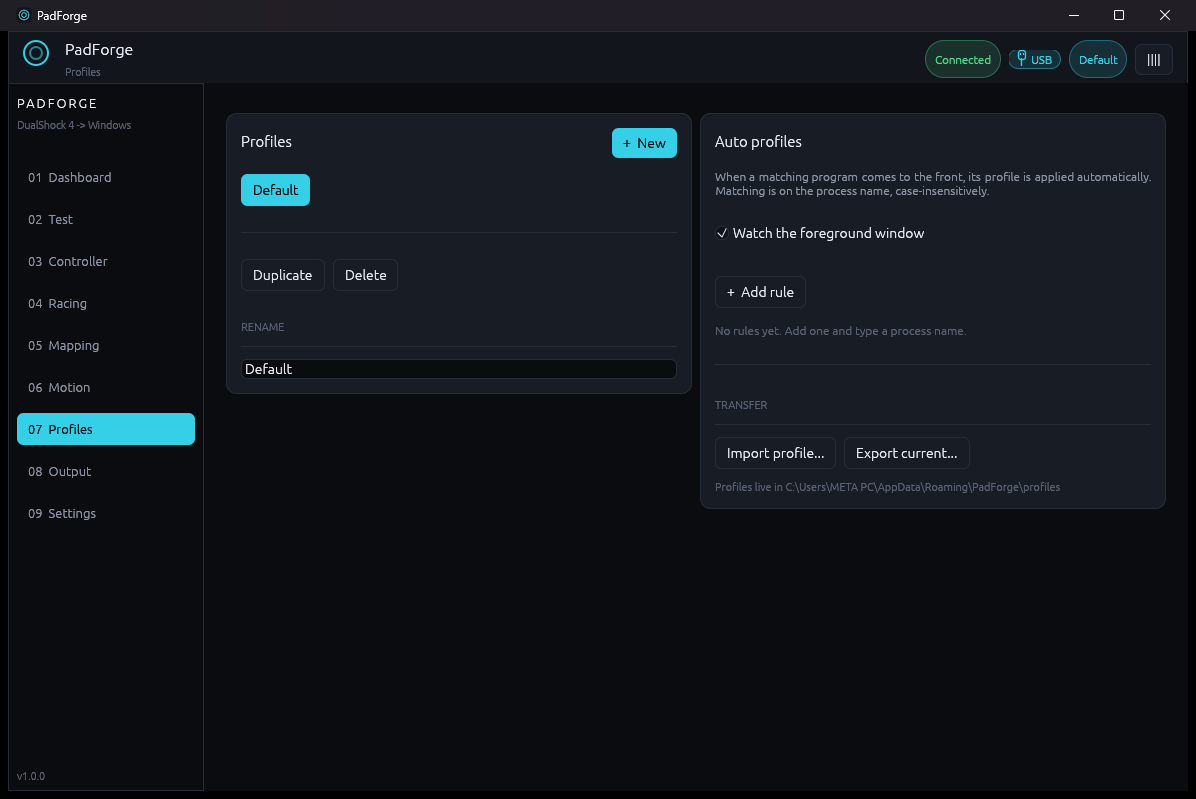
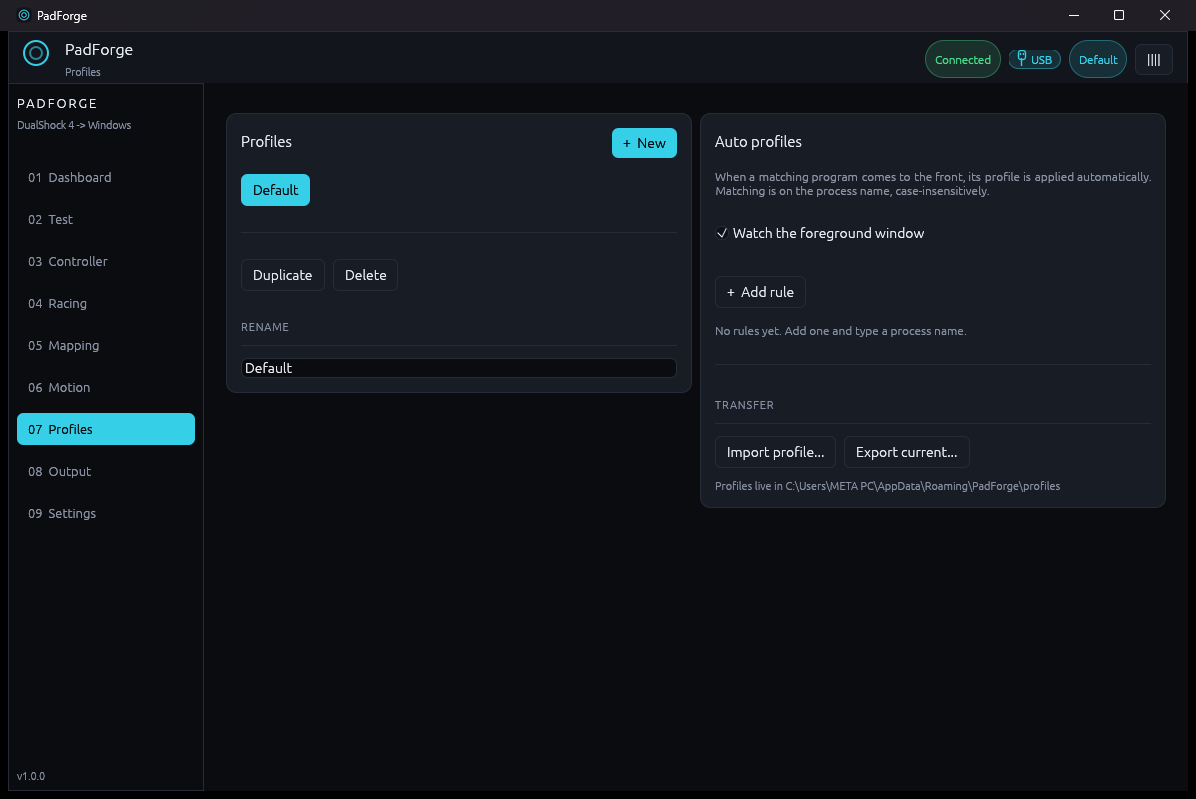
Give the interface a hierarchy, and make the quiet text readable
Two things were wrong with how it looked, and only one of them was taste.

`TEXT_FAINT` measured 2.8:1 against the card surface. That is the colour every
hint line under every control was drawn in -- "Left stick across the road,
through whatever shape is set here", "Games see the pad as this player" -- and
2.8:1 is not readable. A hint nobody can read is not a hint; it is decoration
that looks like information, which is worse than having none. It now measures
above 4.5:1 on every surface it lands on, and a test computes the ratio for
every text tier against every surface so this cannot quietly come back. The
test found the value was still short on `SURFACE_HOVER`, one click away from any
control, so the tier is set by the darkest surface rather than the most common
one.

The second was that every panel was the same weight. With nothing to land on
first, a page asks the reader to scan all of it equally, which is the most
expensive way to present a control panel. Three card treatments now: the
standard one, a recessed borderless one for detail that supports a panel rather
than standing beside it, and an accented one for the single panel a page is
about. Recessing means dropping the border as well as darkening -- a panel that
keeps its outline still competes, because an outline is what the eye reads
first.

The Motor levels and the held-controls list on the dashboard are readouts, not
controls, and now read that way. The pedal knobs sit inside the response curves
[…]

diff --git a/crates/padforge/src/theme.rs b/crates/padforge/src/theme.rs
@@ -24,7 +24,15 @@ pub const TEXT: Color32 = Color32::from_rgb(0xE6, 0xEA, 0xF2);
 /// Secondary text: labels, hints.
 pub const TEXT_MUTED: Color32 = Color32::from_rgb(0x8B, 0x94, 0xA6);
 /// Tertiary text: disabled states.
-pub const TEXT_FAINT: Color32 = Color32::from_rgb(0x5A, 0x62, 0x72);
+///
+/// Lifted from `#5A6272`, which measured 2.8:1 against the card surface. That
+/// is the colour every hint line under every control was drawn in, and 2.8:1
+/// is not readable — a hint nobody can read is not a hint.
+///
+/// The value is set by the *darkest* surface it appears on rather than the most
+/// common one: `SURFACE_HOVER` is a click away from any control, so a tier that
+/// only clears the card surface loses readability the moment the pointer lands.
+pub const TEXT_FAINT: Color32 = Color32::from_rgb(0x84, 0x8F, 0xA2);
 
 /// The lightbar cyan, used for anything active.
 pub const ACCENT: Color32 = Color32::from_rgb(0x35, 0xD0, 0xE8);
@@ -180,12 +188,70 @@ pub fn install(ctx: &egui::Context) {
 }
 
 /// A subtle card frame used throughout the UI.
+///
+/// Not the only one: a page that puts every panel at the same weight has no
+/// hierarchy at all, and the eye has nowhere to land first. [`card`] is the
+/// standard panel, [`card_quiet`] steps back for groups that are supporting
+/// detail, and [`card_accent`] marks the one panel on a page that a change
+/// elsewhere in the app affects most.
 pub fn card() -> egui::Frame {
     egui::Frame::new()
         .fill(SURFACE_RAISED)
         .stroke(Stroke::new(1.0, BORDER))
         .corner_radius(RADIUS_MD)
         .inner_margin(MarginF32::same(SPACE_MD))
+}
+
+/// A recessed card, for detail that supports a panel rather than standing
+/// beside it.
+///
+/// Darker and borderless rather than merely dimmer: a recessed panel that keeps
+/// its outline still competes for attention, because an outline is what the eye
+/// reads first. Dropping the border is what makes it recede.
+pub fn card_quiet() -> egui::Frame {
+    egui::Frame::new()
+        .fill(SURFACE)
+        .stroke(Stroke::NONE)
+        .corner_radius(RADIUS_MD)
+        .inner_margin(MarginF32::same(SPACE_SM))
+}
+
+/// The one panel on a page that matters most.
+///
+/// Accent on the left edge only. A full accent border would shout on every card
+/// it was used on, and the point of having this is that there is only ever one
+/// such card per page.
+pub fn card_accent() -> egui::Frame {
+    egui::Frame::new()
+        .fill(SURFACE_RAISED)
+        .stroke(Stroke::new(1.0, ACCENT_DIM))
+        .corner_radius(RADIUS_MD)
+        .inner_margin(MarginF32::same(SPACE_MD))
+}
+
+/// A heading, set larger than any body text and carrying a count of its items.
+///
+/// A section label and a section title are different jobs, and the old design
+/// used the label for both. Small, wide-tracked, faint capitals work as a label
+/// above a group; the title of the group itself needs to be readable at a glance
+/// from across the desk.
+pub fn heading(ui: &mut egui::Ui, title: &str) {
+    ui.label(egui::RichText::new(title).color(TEXT).size(15.0).strong());
+}
+
+/// The small wide-tracked label that sits above a group of controls.
+///
+/// Capitalised with tracking rather than joined, because a joined lowercase word
+/// at eleven points is the shape that reads as a placeholder rather than a
+/// label.
+pub fn eyebrow(ui: &mut egui::Ui, title: &str) {
+    ui.label(
+        egui::RichText::new(title.to_uppercase())
+            .color(TEXT_FAINT)
+            .size(10.5)
+            .strong()
+            .extra_letter_spacing(1.2),
+    );
 }
 
 /// A full-bleed section separator.
@@ -256,14 +322,13 @@ pub fn pill(ui: &mut egui::Ui, label: &str, color: Color32) {
 }
 
 /// Section heading with a hairline underneath.
+///
+/// Built from [`eyebrow`] and [`divider`] rather than repeating them, so a
+/// section's two halves cannot drift apart the way two copies of the same rule
+/// eventually do.
 pub fn section(ui: &mut egui::Ui, title: &str) {
     ui.add_space(SPACE_SM);
-    ui.label(
-        egui::RichText::new(title.to_uppercase())
-            .color(TEXT_FAINT)
-            .size(11.0)
-            .strong(),
-    );
+    eyebrow(ui, title);
     divider(ui);
 }
 
@@ -276,6 +341,86 @@ mod tests {
         assert_eq!(battery_color(0.0), DANGER);
         assert_eq!(battery_color(0.2), WARNING);
         assert_eq!(battery_color(0.9), SUCCESS);
+    }
+
+    /// Relative luminance of a packed sRGB colour, per WCAG 2.x.
+    fn luminance(c: Color32) -> f32 {
+        fn channel(v: u8) -> f32 {
+            let v = v as f32 / 255.0;
+            if v <= 0.039_28 {
+                v / 12.92
+            } else {
+                ((v + 0.055) / 1.055).powf(2.4)
+            }
+        }
+        0.2126 * channel(c.r()) + 0.7152 * channel(c.g()) + 0.0722 * channel(c.b())
+    }
+
+    /// WCAG contrast ratio between two colours.
+    fn contrast(a: Color32, b: Color32) -> f32 {
+        let (hi, lo) = {
+            let (x, y) = (luminance(a), luminance(b));
+            if x > y {
+                (x, y)
+            } else {
+                (y, x)
+            }
+        };
+        (hi + 0.05) / (lo + 0.05)
+    }
+
+    #[test]
+    fn every_text_tier_is_readable_on_every_surface_it_lands_on() {
+        // 4.5:1 is the WCAG AA minimum for body text, and a hint line under a
+        // control is body text. The old third tier measured 2.8:1 against the
+        // card surface and this test is why that cannot happen again.
+        for (name, text) in [
+            ("TEXT", TEXT),
+            ("TEXT_MUTED", TEXT_MUTED),
+            ("TEXT_FAINT", TEXT_FAINT),
+        ] {
+            for (surface_name, surface) in [
+                ("BACKDROP", BACKDROP),
+                ("SURFACE", SURFACE),
+                ("SURFACE_RAISED", SURFACE_RAISED),
+                ("SURFACE_HOVER", SURFACE_HOVER),
+            ] {
+                let ratio = contrast(text, surface);
+                assert!(
+                    ratio >= 4.5,
+                    "{name} on {surface_name} is {ratio:.2}:1, below the 4.5:1 minimum"
+                );
+            }
+        }
+    }
+
+    #[test]
+    fn the_accent_and_status_colours_clear_text_minimums_too() {
+        // Status is carried by colour, so it is never the only carrier — but the
+        // text next to it still has to be readable, and a saturated hue on a
+        // dark card is exactly where that quietly fails.
+        for (name, c) in [
+            ("ACCENT", ACCENT),
+            ("SUCCESS", SUCCESS),
+            ("WARNING", WARNING),
+            ("DANGER", DANGER),
+            ("WIRELESS", WIRELESS),
+        ] {
+            let ratio = contrast(c, SURFACE_RAISED);
+            assert!(
+                ratio >= 4.5,
+                "{name} on a card is {ratio:.2}:1, below the 4.5:1 minimum"
+            );
+        }
+    }
+
+    #[test]
+    fn the_quiet_card_really_does_recede() {
+        // The hierarchy is only worth having if it is visible: the quiet card
+        // has to sit measurably below the standard one against the backdrop,
+        // or the two are decoration.
+        assert!(luminance(SURFACE) < luminance(SURFACE_RAISED));
+        assert!(contrast(SURFACE, BACKDROP) < contrast(SURFACE_RAISED, BACKDROP));
     }
 
     #[test]

diff --git a/crates/padforge/src/pages/dashboard.rs b/crates/padforge/src/pages/dashboard.rs
@@ -51,10 +51,13 @@ fn live_input(ui: &mut egui::Ui, t: &padcore::engine::Telemetry) {
         };
         preview.show(ui);
         ui.add_space(SPACE_SM);
-        divider(ui);
-        caption(ui, "HOLDING");
-        ui.add_space(SPACE_XS);
-        active_controls(ui, &t.active_controls);
+        // Recessed, so "what is held right now" reads as an annotation on the
+        // pad drawing rather than as a second, competing panel.
+        card_quiet().show(ui, |ui| {
+            caption(ui, "HOLDING");
+            ui.add_space(SPACE_XS);
+            active_controls(ui, &t.active_controls);
+        });
     });
 }
 
@@ -102,26 +105,29 @@ fn controls(
         });
 
         ui.add_space(SPACE_MD);
-        divider(ui);
         caption(ui, "ACTIVE PROFILE");
         ui.add_space(SPACE_XS);
         profile_chips(ctx, ui);
 
         ui.add_space(SPACE_MD);
-        divider(ui);
-        caption(ui, "VIBRATION");
-        ui.add_space(SPACE_XS);
-        widgets::trigger_bar(ui, "Low motor", t.rumble.0 as f32 / 255.0, t.rumble.0 > 0);
-        widgets::trigger_bar(ui, "High motor", t.rumble.1 as f32 / 255.0, t.rumble.1 > 0);
-        ui.label(
-            RichText::new(if t.rumble_test {
-                "Testing: both motors, for a moment."
-            } else {
-                "Driven by the game, or by the test button."
-            })
-            .color(TEXT_FAINT)
-            .size(11.0),
-        );
+        // Recessed because it is a readout, not a control. The pause button and
+        // the profile picker above are what this card is for; the motor levels
+        // are the evidence that one of them worked.
+        card_quiet().show(ui, |ui| {
+            caption(ui, "VIBRATION");
+            ui.add_space(SPACE_XS);
+            widgets::trigger_bar(ui, "Low motor", t.rumble.0 as f32 / 255.0, t.rumble.0 > 0);
+            widgets::trigger_bar(ui, "High motor", t.rumble.1 as f32 / 255.0, t.rumble.1 > 0);
+            ui.label(
+                RichText::new(if t.rumble_test {
+                    "Testing: both motors, for a moment."
+                } else {
+                    "Driven by the game, or by the test button."
+                })
+                .color(TEXT_FAINT)
+                .size(11.0),
+            );
+        });
     });
 }
 

diff --git a/crates/padforge/src/pages/output.rs b/crates/padforge/src/pages/output.rs
@@ -36,11 +36,11 @@ pub fn draw(ui: &mut egui::Ui, ctx: &mut super::Ctx) {
 /// Driver status, output mode, and pointer injection.
 fn backend_card(ui: &mut egui::Ui, ctx: &mut super::Ctx, t: &padcore::engine::Telemetry) {
     card().show(ui, |ui| {
+        heading(ui, "Virtual gamepad");
         ui.label(
-            RichText::new("Virtual gamepad")
-                .color(TEXT)
-                .size(15.0)
-                .strong(),
+            RichText::new("what PadForge publishes to Windows")
+                .color(TEXT_FAINT)
+                .size(11.5),
         );
         ui.add_space(SPACE_SM);
         // Status line.
@@ -456,12 +456,16 @@ fn backend_card(ui: &mut egui::Ui, ctx: &mut super::Ctx, t: &padcore::engine::Te
 }
 /// The XInput report being published, live.
 fn monitor_card(ui: &mut egui::Ui, ctx: &mut super::Ctx, t: &padcore::engine::Telemetry) {
-    card().show(ui, |ui| {
+    // Accented because this is the one panel on the page that answers the
+    // question the page exists for. The other panel configures the output; this
+    // one shows what the OS actually received, and a reader who only reads one
+    // panel should be reading this one.
+    card_accent().show(ui, |ui| {
+        heading(ui, "What games see");
         ui.label(
-            RichText::new("What games see")
-                .color(TEXT)
-                .size(15.0)
-                .strong(),
+            RichText::new("the report Windows is being handed right now")
+                .color(TEXT_FAINT)
+                .size(11.5),
         );
         ui.add_space(SPACE_SM);
         if !t.output_connected {

diff --git a/crates/padforge/src/pages/racing.rs b/crates/padforge/src/pages/racing.rs
@@ -147,17 +147,22 @@ fn pedals(ui: &mut egui::Ui, ctx: &mut super::Ctx, t: &padcore::engine::Telemetr
             t.report.buttons.any(padcore::report::Buttons::L2),
         );
 
-        ui.add_space(SPACE_MD);
-        divider(ui);
         // Side by side, matching the two plots above them. Stacked, the two
         // sets of identical knobs ran to twice the height of everything else on
         // the page for the sake of repeating the same three controls.
         let mut changed = false;
-        ui.columns(2, |cols| {
-            caption(&mut cols[0], "THROTTLE");
-            changed |= pedal_knobs(&mut cols[0], "racing-throttle", &mut throttle);
-            caption(&mut cols[1], "BRAKE");
-            changed |= pedal_knobs(&mut cols[1], "racing-brake", &mut brake);
+        ui.add_space(SPACE_MD);
+        // Recessed rather than merely separated by a rule. The response curves
+        // above are what this card is for; these knobs are the fine adjustment
+        // underneath them, and at equal weight the eye starts at the knobs and
+        // never reaches the picture that explains them.
+        card_quiet().show(ui, |ui| {
+            ui.columns(2, |cols| {
+                caption(&mut cols[0], "THROTTLE");
+                changed |= pedal_knobs(&mut cols[0], "racing-throttle", &mut throttle);
+                caption(&mut cols[1], "BRAKE");
+                changed |= pedal_knobs(&mut cols[1], "racing-brake", &mut brake);
+            });
         });
 
         if changed {

diff --git a/crates/padforge/src/pages/controller.rs b/crates/padforge/src/pages/controller.rs
@@ -140,9 +140,15 @@ fn axis_card(
 
         for (index, axis) in [ax, ay].iter().enumerate() {
             if index == 1 {
-                divider(ui);
+                ui.add_space(SPACE_SM);
+                // A recessed panel around the second axis rather than a rule
+                // between them. With a rule the two halves read as one list, so
+                // a reader cannot tell at a glance that a DualShock has two
+                // independent axes here and they are configured separately.
+                card_quiet().show(ui, |ui| edit_one_axis(ui, ctx, *axis));
+            } else {
+                edit_one_axis(ui, ctx, *axis);
             }
-            edit_one_axis(ui, ctx, *axis);
         }
     });
 }
